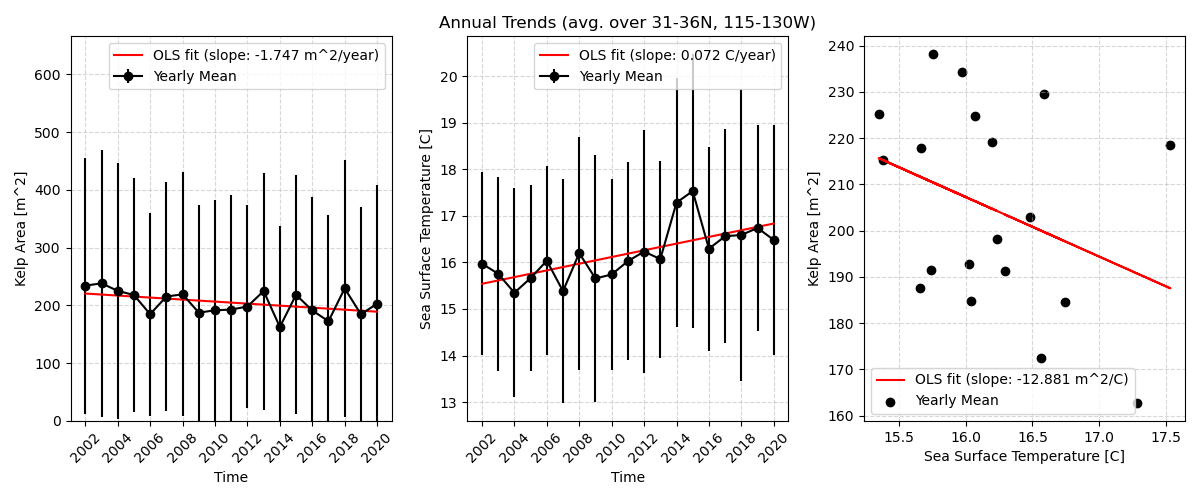
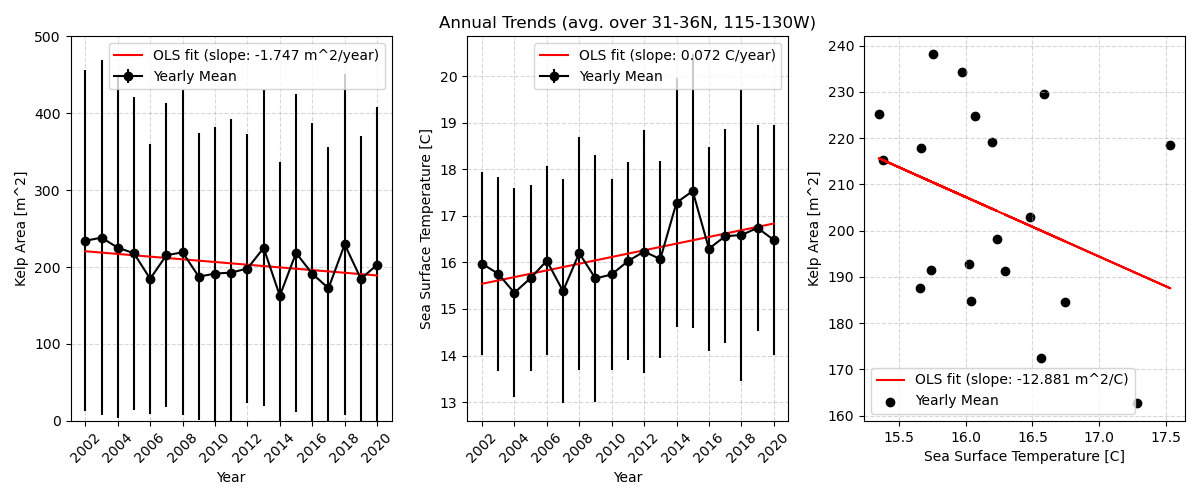
annual trends

diff --git a/trends_annual.py b/trends_annual.py
@@ -127,18 +127,18 @@ if __name__ == "__main__":
                 yearly_kelp, yerr=yearly_std, fmt='o', ls='-', color='black', label='Yearly Mean')
     ax[0].plot(years.astype('datetime64[Y]'), y_ols, ls='-', color='red', label=f'OLS fit (slope: {coeffs[0]:.3f} m^2/year)')
     #ax[0].errorbar(utime_dt, bmean, yerr=bstd, fmt='o', color='red',alpha=0.25, label='Quarterly Mean')
-    ax[0].set_xlabel("Time")
+    ax[0].set_xlabel("Year")
     ax[0].tick_params(axis='x', rotation=45)
     ax[0].set_ylabel("Kelp Area [m^2]")
     ax[0].grid(True,ls='--',alpha=0.5)
-    ax[0].set_ylim([0,666])
+    ax[0].set_ylim([0,500])
     ax[0].legend(loc='best')
 
     ax[1].set_title("Annual Trends (avg. over 31-36N, 115-130W)")
     ax[1].errorbar(years.astype('datetime64[Y]'),
                    yearly_sst-273.15, yerr=yearly_sst_std, fmt='o', ls='-', color='black', label='Yearly Mean')
     ax[1].plot(years.astype('datetime64[Y]'), y_sst-273.15, ls='-', color='red', label=f'OLS fit (slope: {coeffs_sst[0]:.3f} C/year)')
-    ax[1].set_xlabel("Time")
+    ax[1].set_xlabel("Year")
     # rotate tick labels 45 deg
     ax[1].tick_params(axis='x', rotation=45)
     ax[1].set_ylabel("Sea Surface Temperature [C]")
